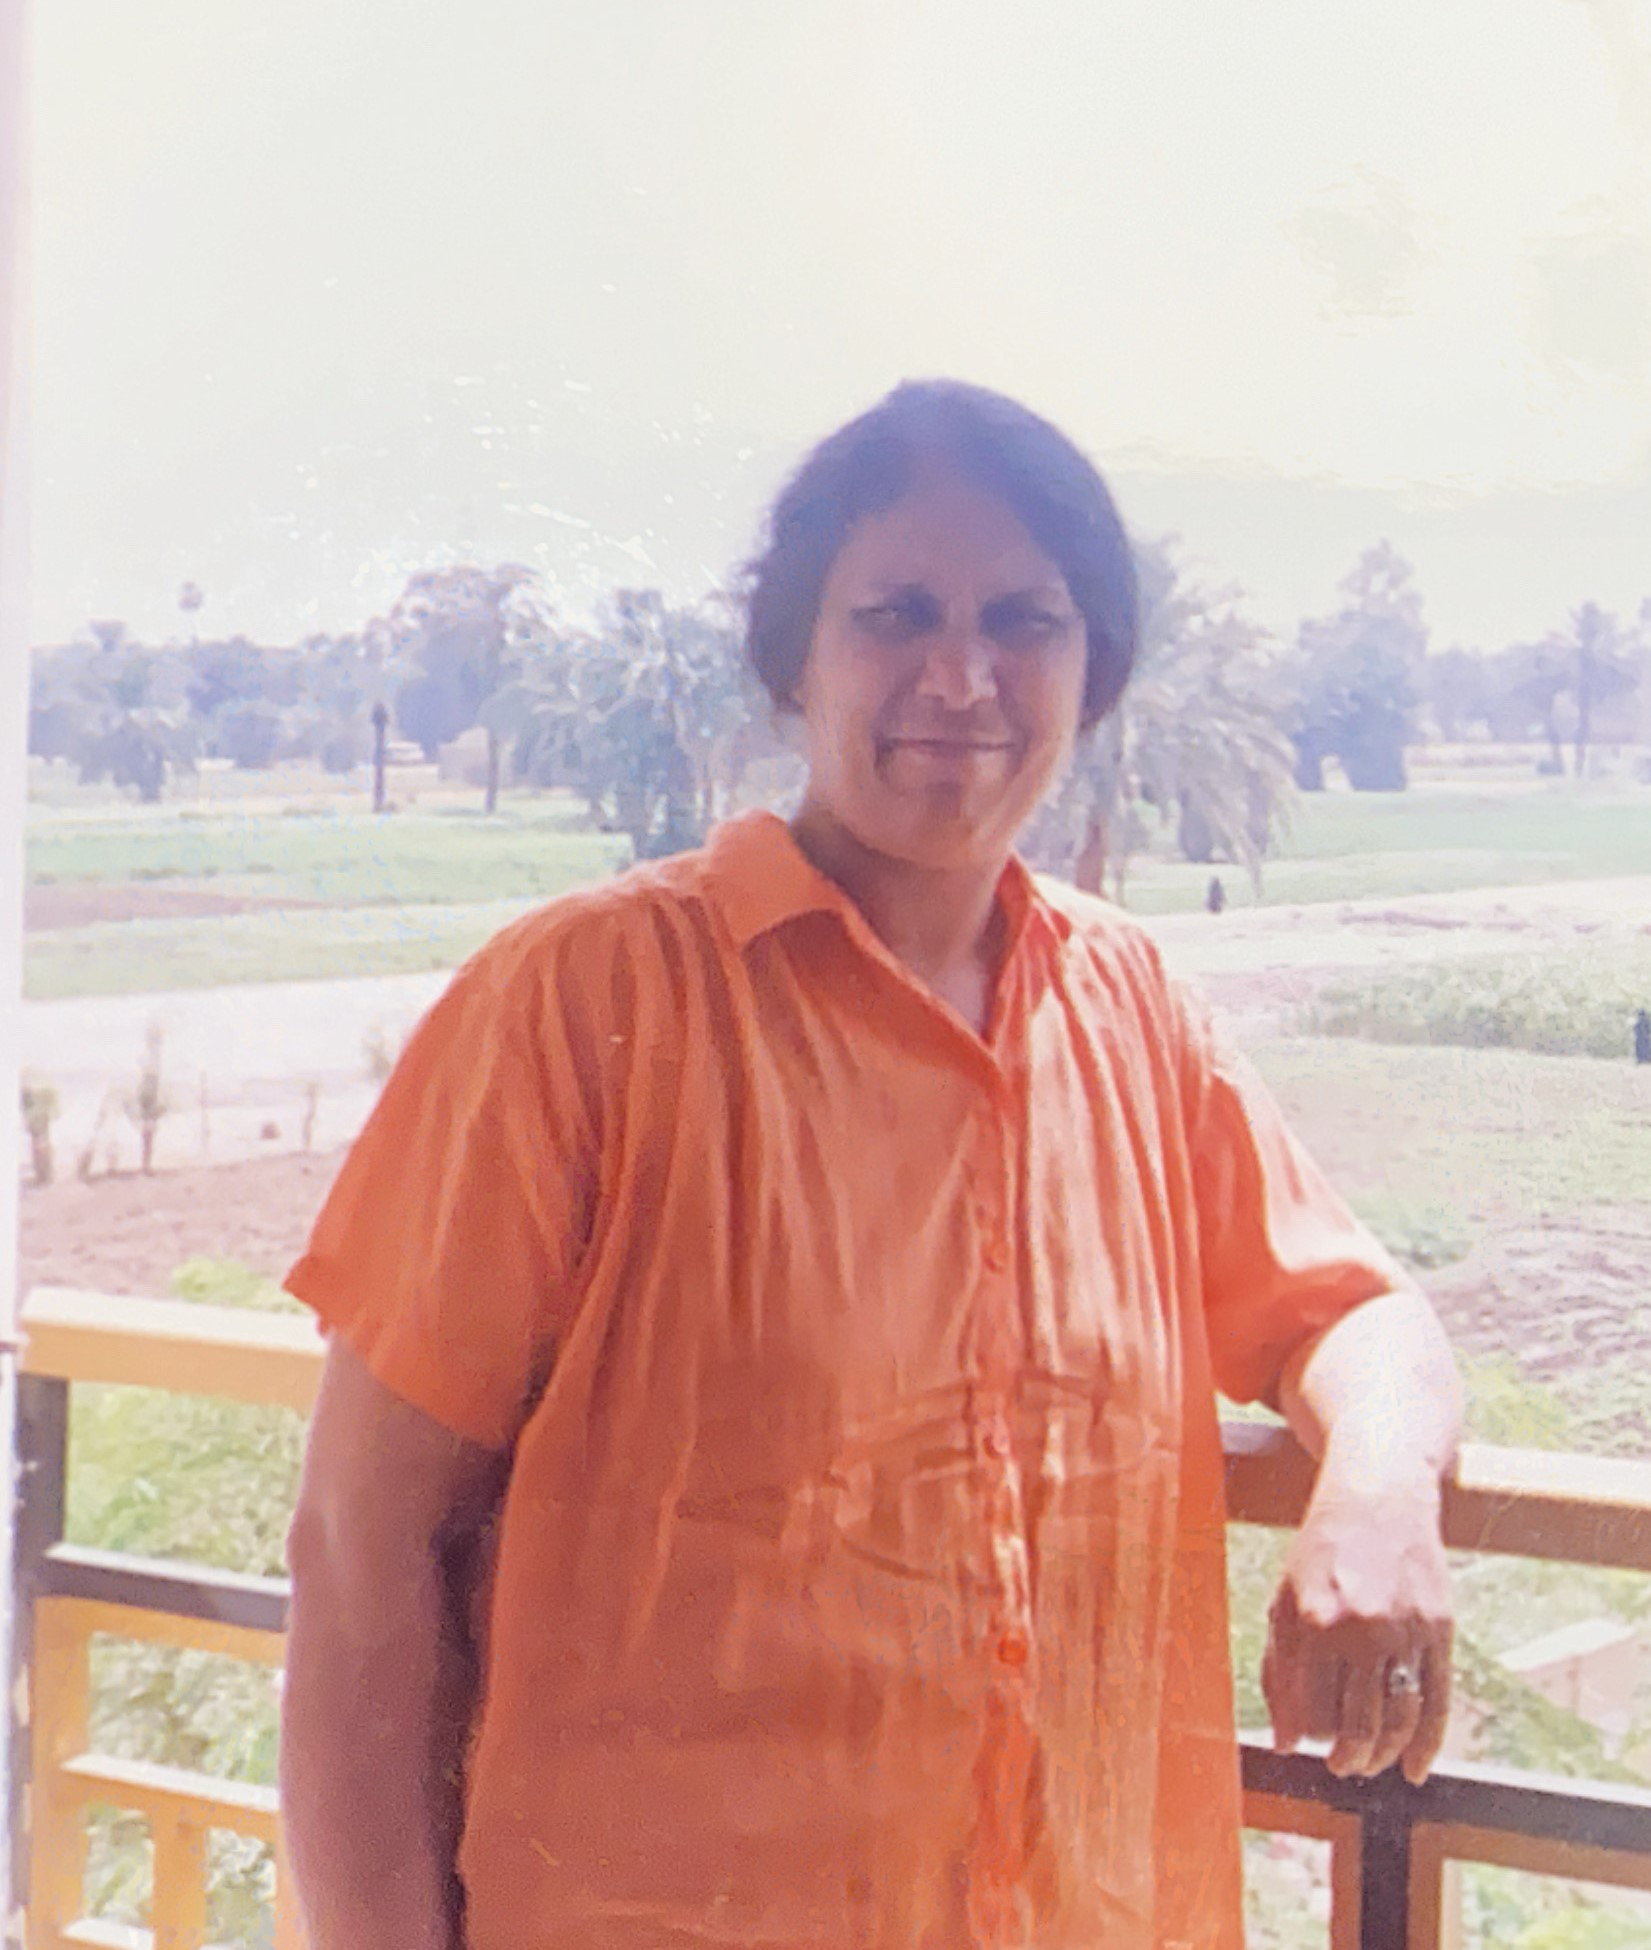
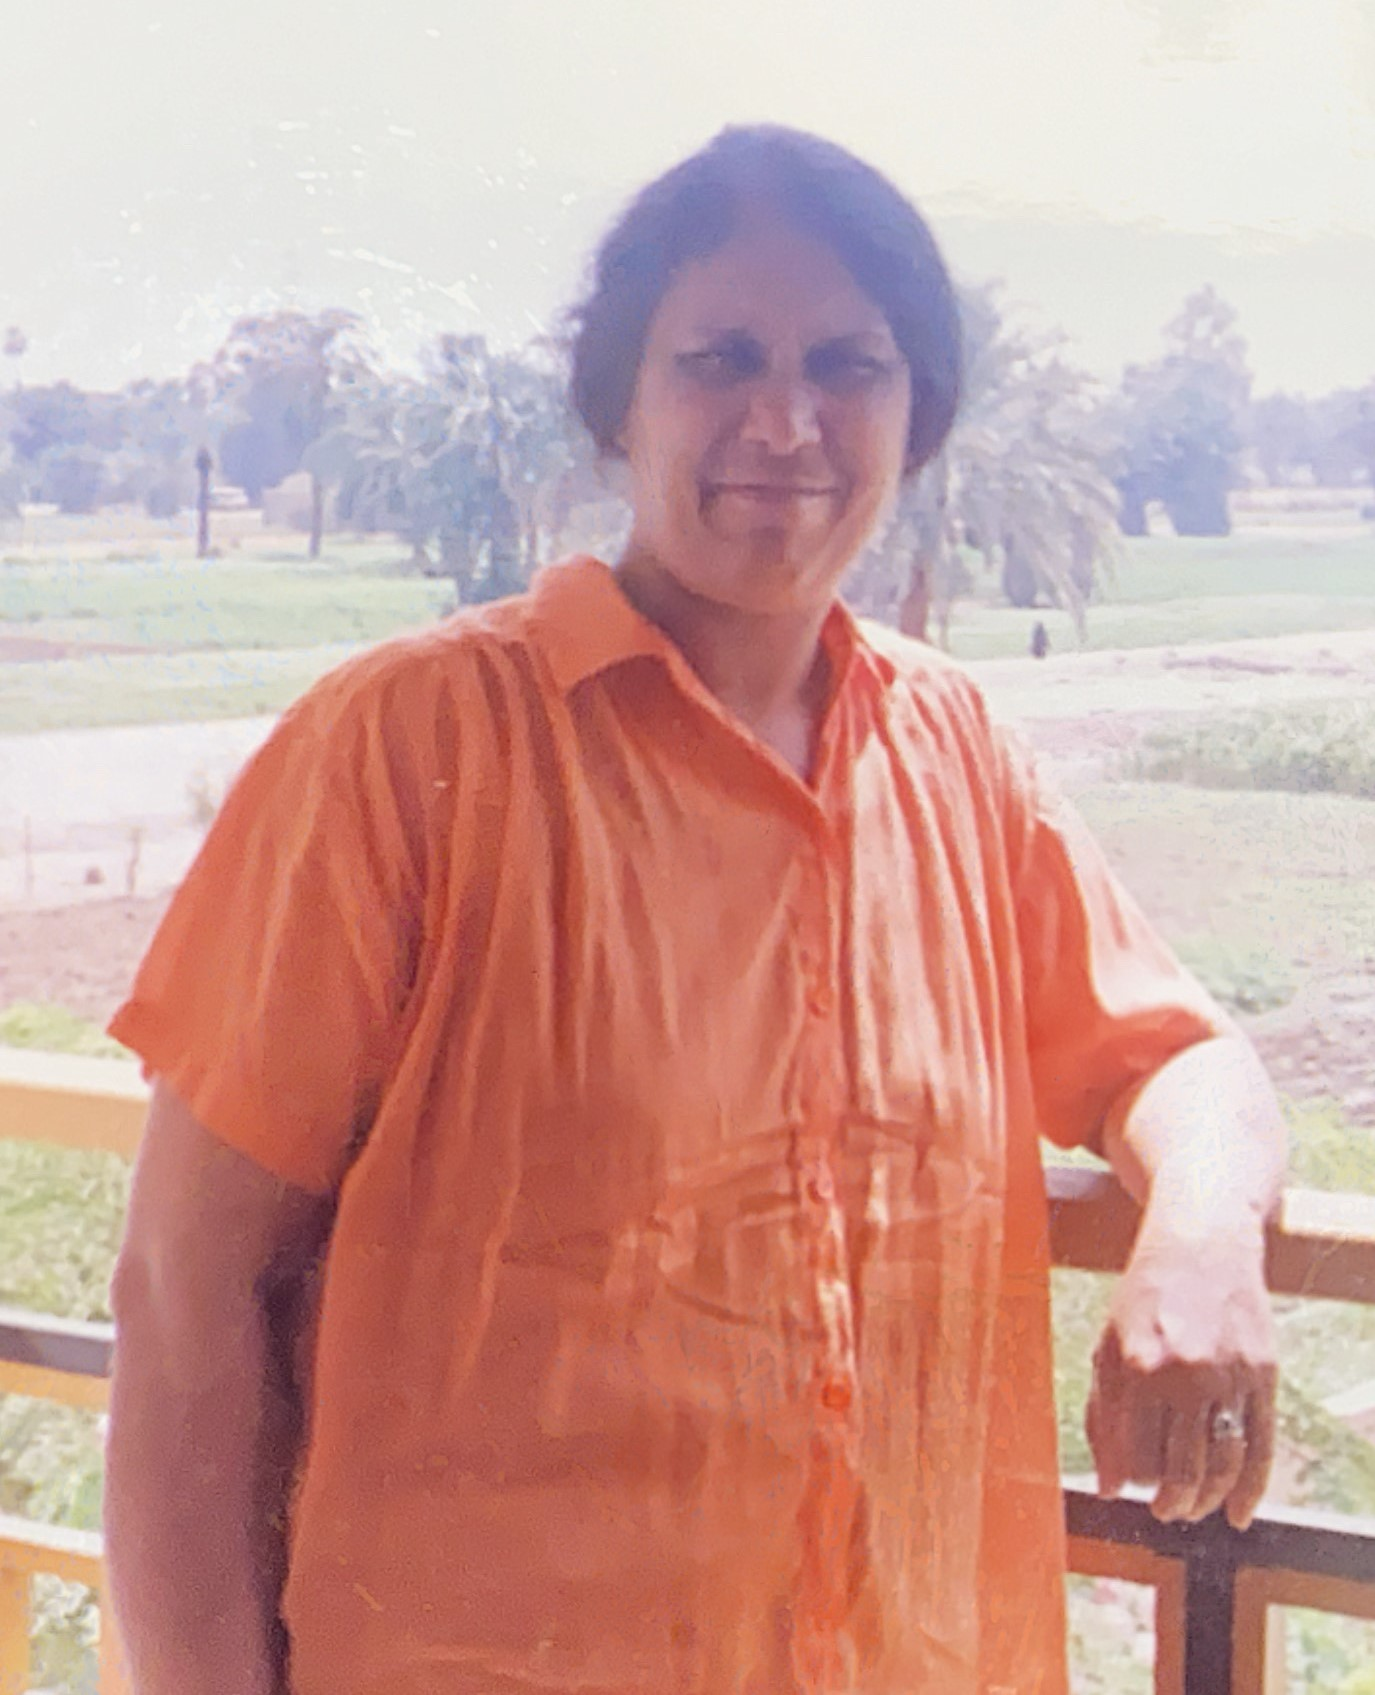
changed hero image size; changed css for timeline headings

diff --git a/pages/index.tsx b/pages/index.tsx
@@ -52,7 +52,7 @@ const Title = styled.h1`
 `;
 
 const HeroImage = styled.img`
-  width: 800px;
+  width: 600px;
   margin-top: 2rem;
 
   @media (max-width: ${MOBILE_WIDTH}) {
@@ -113,12 +113,14 @@ const MapSpacer = styled.div`
 `;
 
 const TimelineSectionHeading = styled.h3`
-  font-weight: normal;
-  text-decoration: underline;
   margin: 0;
 `;
 
-const TimelineContentHeading = styled.h4``;
+const TimelineContentHeading = styled.h4`
+  font-weight: normal;
+  text-decoration: underline;
+  font-size: 1.2rem;
+`;
 
 const MapSizer = styled.div`
   width: 600px;
